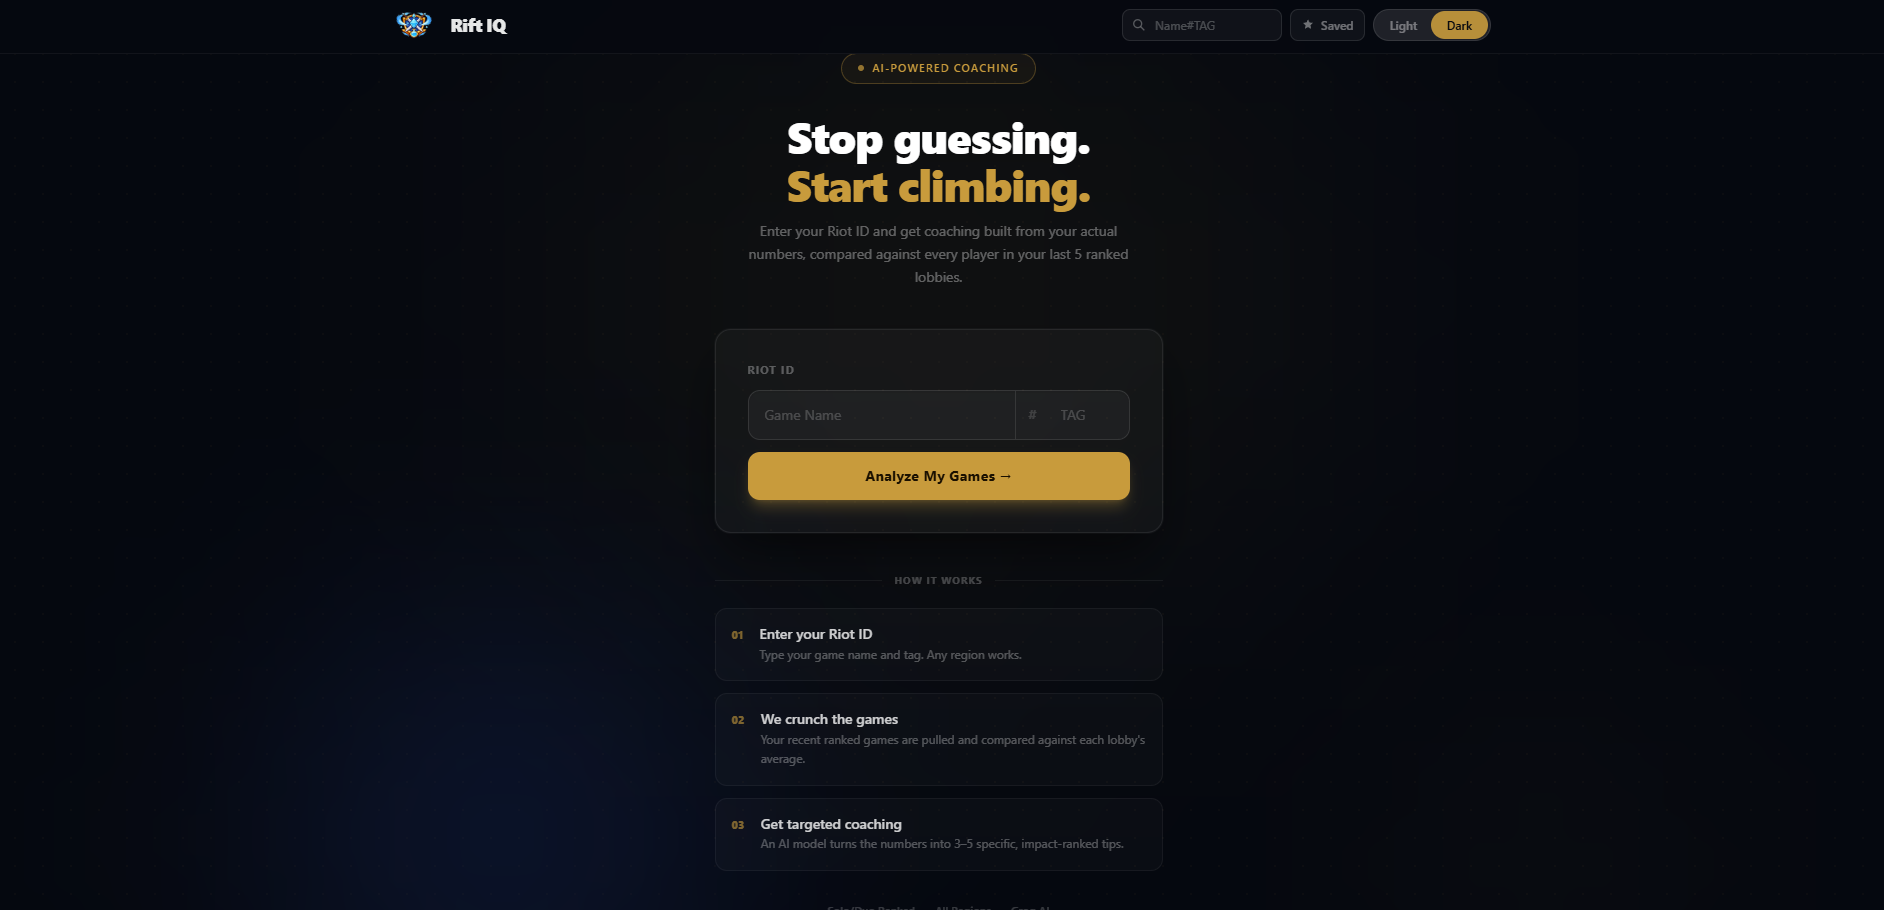
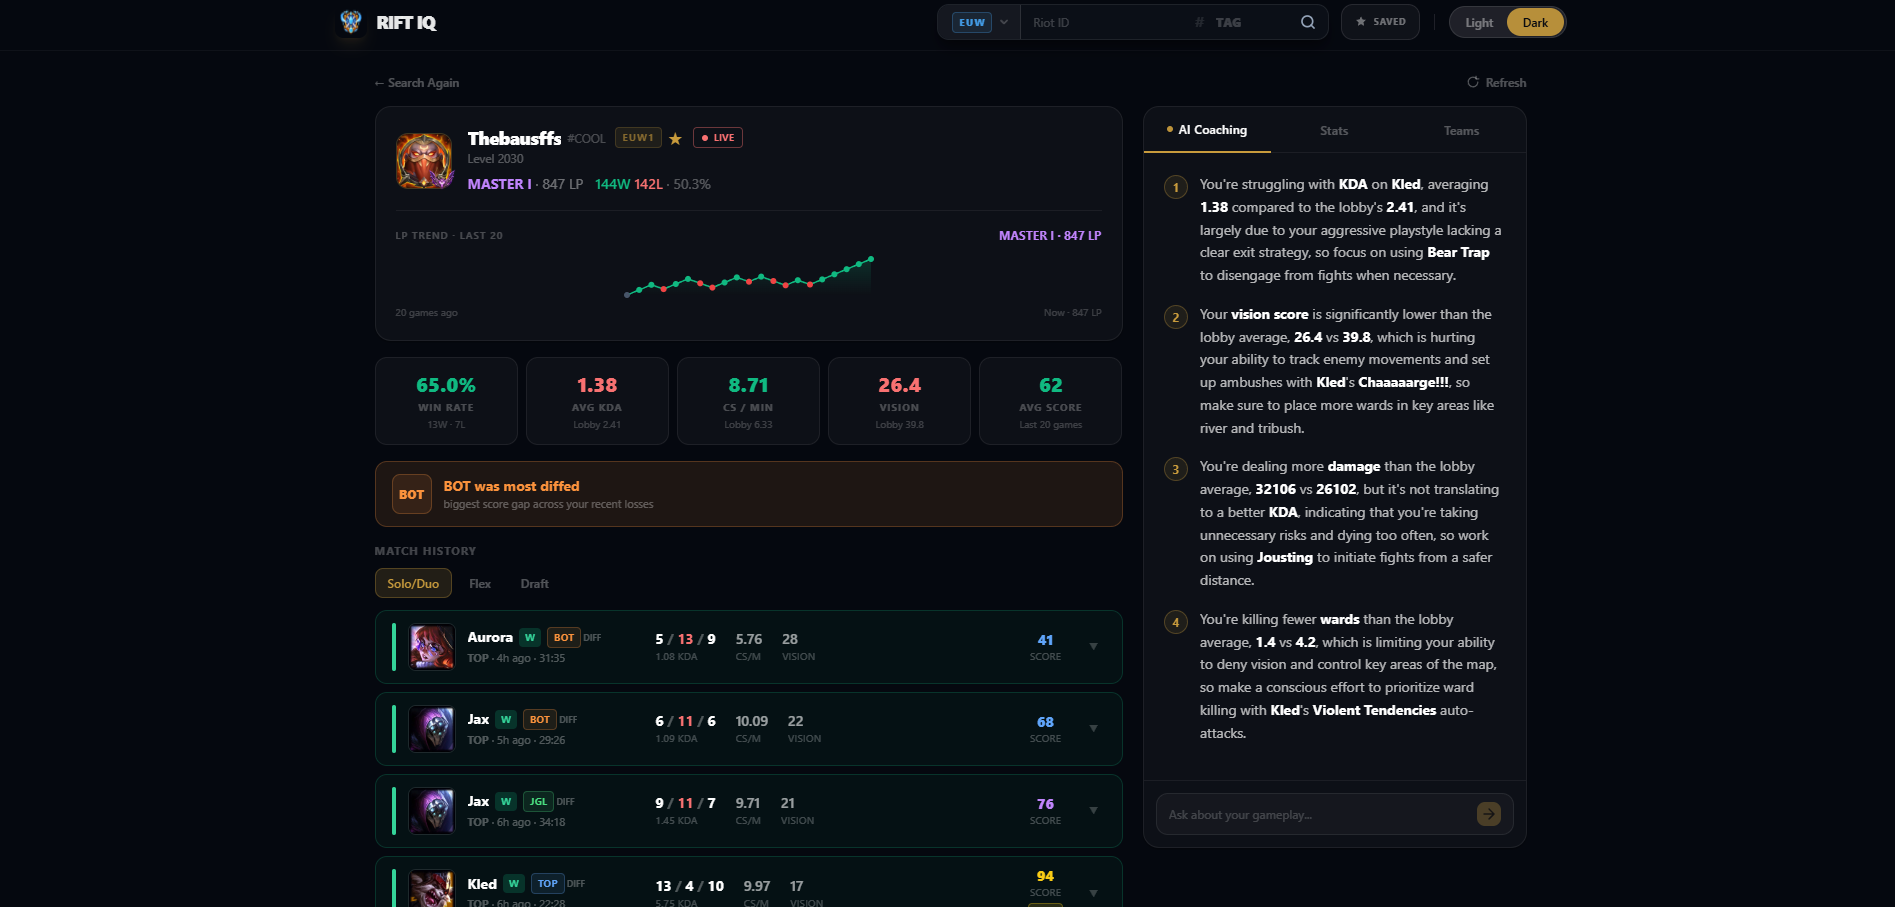
Update .gitignore to exclude local configs and artifacts

diff --git a/README.md b/README.md
@@ -1,6 +1,6 @@
 # Rift IQ
 
-AI-powered League of Legends coaching. Enter your Riot ID, get a breakdown of your last 10 ranked games, and receive targeted tips generated by an LLM grounded in your actual stats vs. lobby averages.
+A sophisticated coaching platform for League of Legends that provides data-driven advice based on your real performance. It benchmarks your statistics against every other player in your recent matches, using advanced language models to identify specific areas for improvement and providing actionable tips to help you climb the ladder.
 
 ![React](https://img.shields.io/badge/React-19-61DAFB?style=flat&logo=react&logoColor=white)
 ![FastAPI](https://img.shields.io/badge/FastAPI-009688?style=flat&logo=fastapi&logoColor=white)
